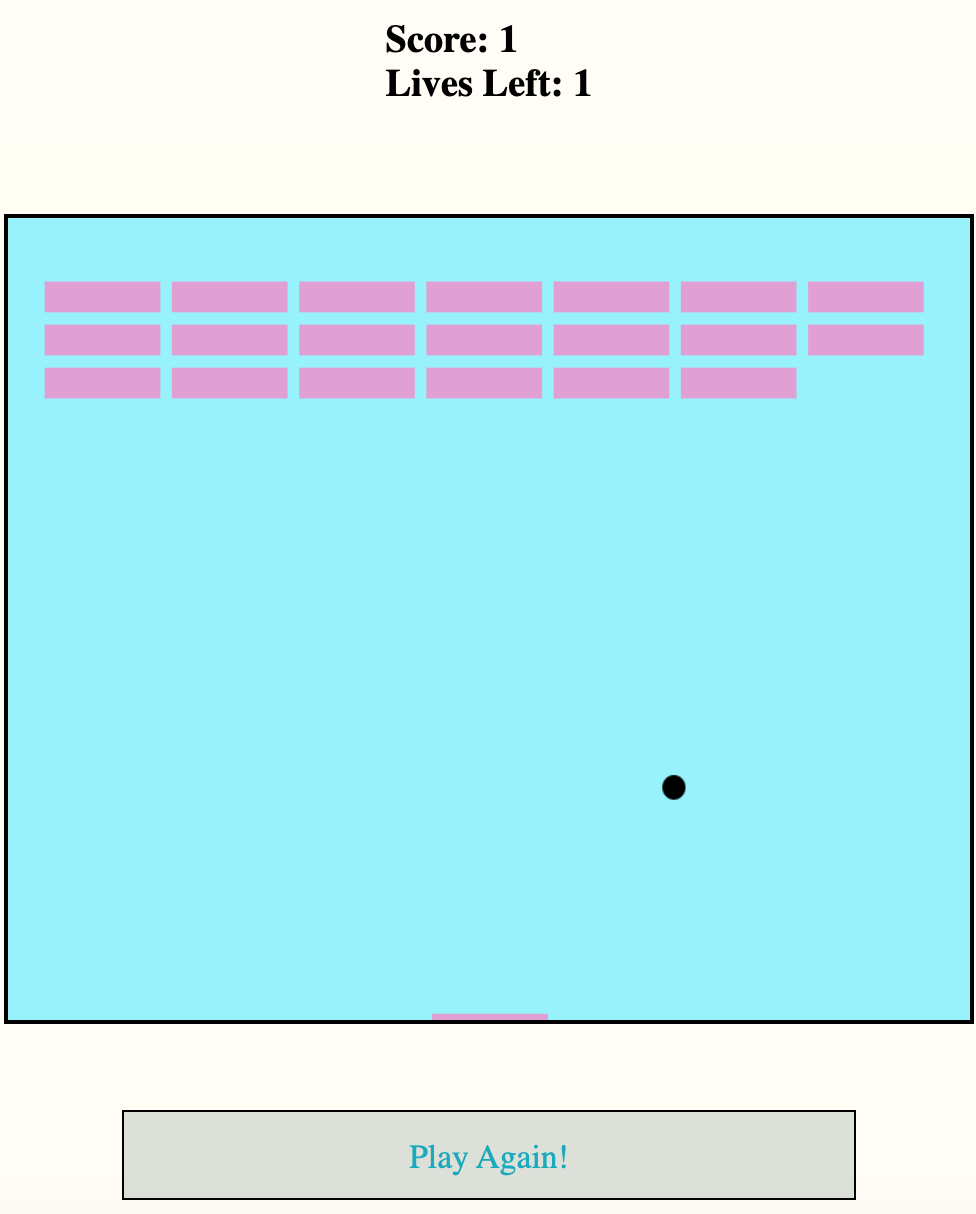
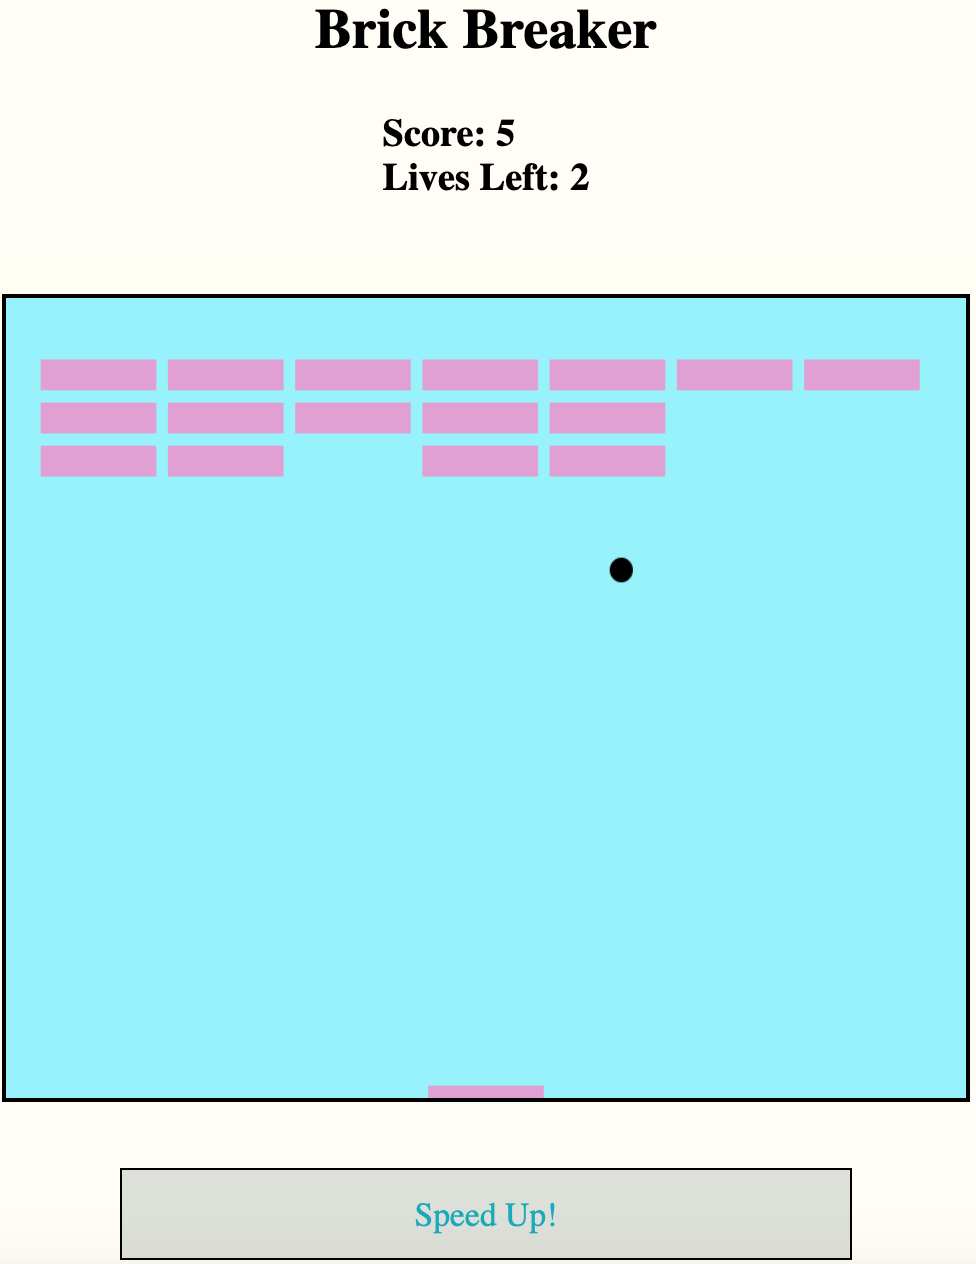
ok now I'm done :( got excited before for nothing

diff --git a/js/brickBreaker.js b/js/brickBreaker.js
@@ -32,6 +32,7 @@ document.addEventListener("keydown", keyDownHandler, false);
 document.addEventListener("keyup", keyUpHandler, false);
 document.addEventListener("mousemove", mouseMoveHandler, false);
 
+document.getElementById("speed-button").onclick = draw ;
 function keyDownHandler(e) {
     if(e.key == "Right" || e.key == "ArrowRight") {
         rightPressed = true;

diff --git a/brickBreaker.html b/brickBreaker.html
@@ -19,7 +19,7 @@
       <h2> <span class="score"><p id = "score"></p></span><span class="lives"><p id = "lives"></p></span></h2>
       <canvas class="container wrap" id="board" width = "830" height = "650"></canvas>
 
-      <div id="reset-button">Play Again!</div>
+      <div id="speed-button">Speed Up!</div>
 
     </div>
   </body>

diff --git a/css/brickBreaker.css b/css/brickBreaker.css
@@ -56,7 +56,7 @@ body {
   border: 3px solid black;
 }
 
-#reset-button {
+#speed-button {
   background-color: #DDE0D7;
   border: 1px solid black;
   color: #01AABC;
@@ -67,7 +67,7 @@ body {
   width: 456px;
 }
 
-#reset-button:hover {
+#speed-button:hover {
   background-color: #E2D3DF;
   color: black;
   cursor: pointer;
